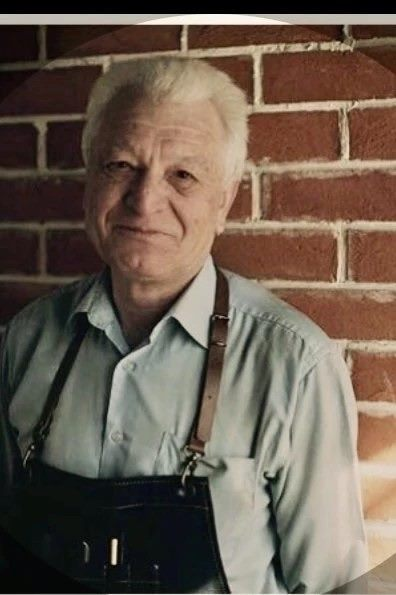
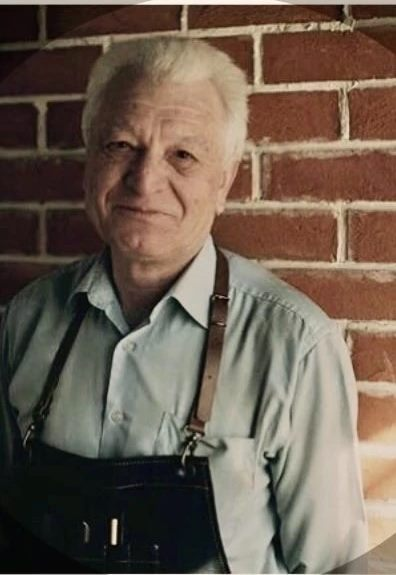
Убрать обрезку голов на фото, висячие предлоги в текстах, выровнять поля секции про производство
Object-position:top для портретных фото в bento-сетке, обрезан артефакт-виньетка
на фото мастера, добавлены неразрывные пробелы после коротких предлогов/союзов,
symmetric margins (justify-content:space-between) вместо жёсткого смещения 54px.

diff --git a/index.html b/index.html
@@ -177,12 +177,12 @@
     color:#CDCBC7;max-width:539px;
   }
 
-  .about-row2{display:flex;align-items:center;gap:93px;flex-wrap:wrap}
+  .about-row2{display:flex;align-items:center;justify-content:space-between;gap:56px;flex-wrap:wrap}
 
   .stats-grid{
     position:relative;display:grid;grid-template-columns:1fr 1fr;
     column-gap:155px;row-gap:348px;width:832px;max-width:100%;
-    margin-left:54px;flex:none;
+    flex:none;
   }
   .stats-grid::before{content:'';position:absolute;left:0;right:0;top:50%;height:1px;background:#CDCBC7;opacity:.35}
   .stats-grid::after{content:'';position:absolute;top:0;bottom:0;left:50%;width:1px;background:#CDCBC7;opacity:.35}
@@ -226,7 +226,8 @@
   .why-vline{position:absolute;top:0;bottom:0;width:1px;background:#CDCBC7;opacity:.3}
   .why-hline{position:absolute;left:0;right:0;height:1px;background:#CDCBC7;opacity:.3}
   .why-cell{border-radius:15px;overflow:hidden;min-width:0;min-height:0}
-  .why-cell img{width:100%;height:100%;object-fit:cover;display:block}
+  .why-cell img{width:100%;height:100%;object-fit:cover;display:block;object-position:center 25%}
+  .why-cell img.portrait{object-position:top}
   .why-cell.text{display:flex;align-items:center;justify-content:center;padding:10px;text-align:left}
   .why-cell.text p{
     font-family:'Inter',sans-serif;font-weight:300;
@@ -580,15 +581,15 @@
   <div class="container about-inner">
     <div class="about-headline">
       <h2>Собственное производство<br>полного цикла</h2>
-      <p>Проектируем, изготавливаем<br>и монтируем мебель из массива с 2014 года.</p>
+      <p>Проектируем, изготавливаем<br>и&nbsp;монтируем мебель из&nbsp;массива с&nbsp;2014 года.</p>
     </div>
 
     <div class="about-row2">
       <div class="stats-grid">
-        <div class="stat-box"><b>12+</b><span>лет на рынке</span></div>
-        <div class="stat-box"><b>3 года</b><span>гарантии на изделия</span></div>
+        <div class="stat-box"><b>12+</b><span>лет на&nbsp;рынке</span></div>
+        <div class="stat-box"><b>3 года</b><span>гарантии на&nbsp;изделия</span></div>
         <div class="stat-box"><b>800+</b><span>выполненных проектов</span></div>
-        <div class="stat-box"><b>15–25</b><span>дней средний срок изготовления</span></div>
+        <div class="stat-box"><b>15–25</b><span>дней средний срок&nbsp;изготовления</span></div>
       </div>
 
       <img class="about-photo-img" src="about-photo-main.jpg" alt="Производство мебели">
@@ -601,7 +602,7 @@
   <div class="container why-inner">
     <div class="why-head">
       <h2>Почему выбирают нас</h2>
-      <p>Показываем не только рекламный ракурс, но и рабочую сторону, внутреннее наполнение и этапы изготовления.</p>
+      <p>Показываем не&nbsp;только рекламный ракурс, но&nbsp;и&nbsp;рабочую сторону, внутреннее наполнение и&nbsp;этапы изготовления.</p>
     </div>
 
     <div class="why-grid">
@@ -610,15 +611,15 @@
       <div class="why-vline" style="left:75.6%"></div>
       <div class="why-hline" style="top:49.7%"></div>
 
-      <div class="why-cell"><img src="why-photo-1.jpg" alt="Производство мебели"></div>
+      <div class="why-cell"><img class="portrait" src="why-photo-1.jpg" alt="Производство мебели"></div>
       <div class="why-cell text"><p>Собственное высокотехнологичное современное производство</p></div>
       <div class="why-cell"><img src="why-photo-2.jpg" alt="Материалы для мебели"></div>
       <div class="why-cell text"><p>Фабричное качество производимой мебели</p></div>
 
-      <div class="why-cell text"><p>Быстрая доставка и сборка мебели на дому</p></div>
+      <div class="why-cell text"><p>Быстрая доставка и&nbsp;сборка мебели на&nbsp;дому</p></div>
       <div class="why-cell"><img src="why-photo-3.jpg" alt="Изготовление мебели"></div>
-      <div class="why-cell text"><p>Гарантия по договору на мебель 3 года</p></div>
-      <div class="why-cell"><img src="why-photo-4.jpg" alt="Мастер мебельного производства"></div>
+      <div class="why-cell text"><p>Гарантия по&nbsp;договору на&nbsp;мебель 3&nbsp;года</p></div>
+      <div class="why-cell"><img class="portrait" src="why-photo-4.jpg" alt="Мастер мебельного производства"></div>
     </div>
   </div>
 </section>
